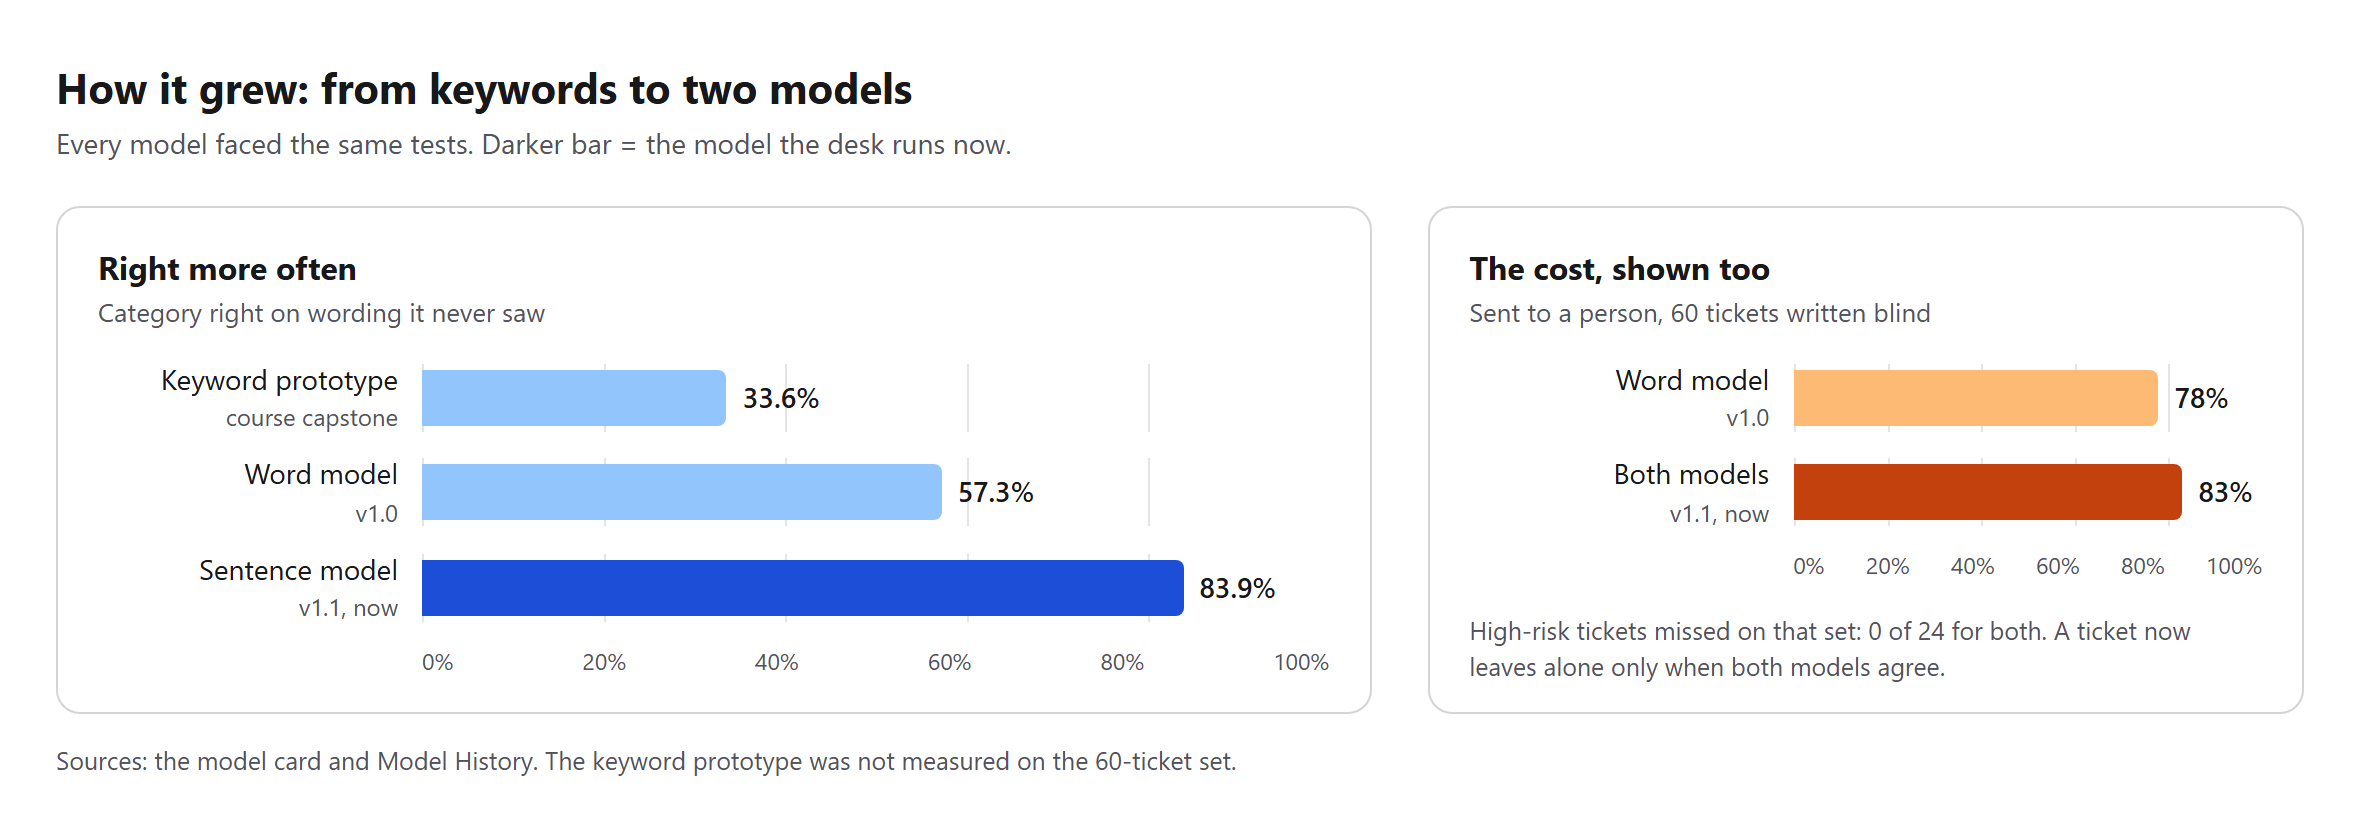
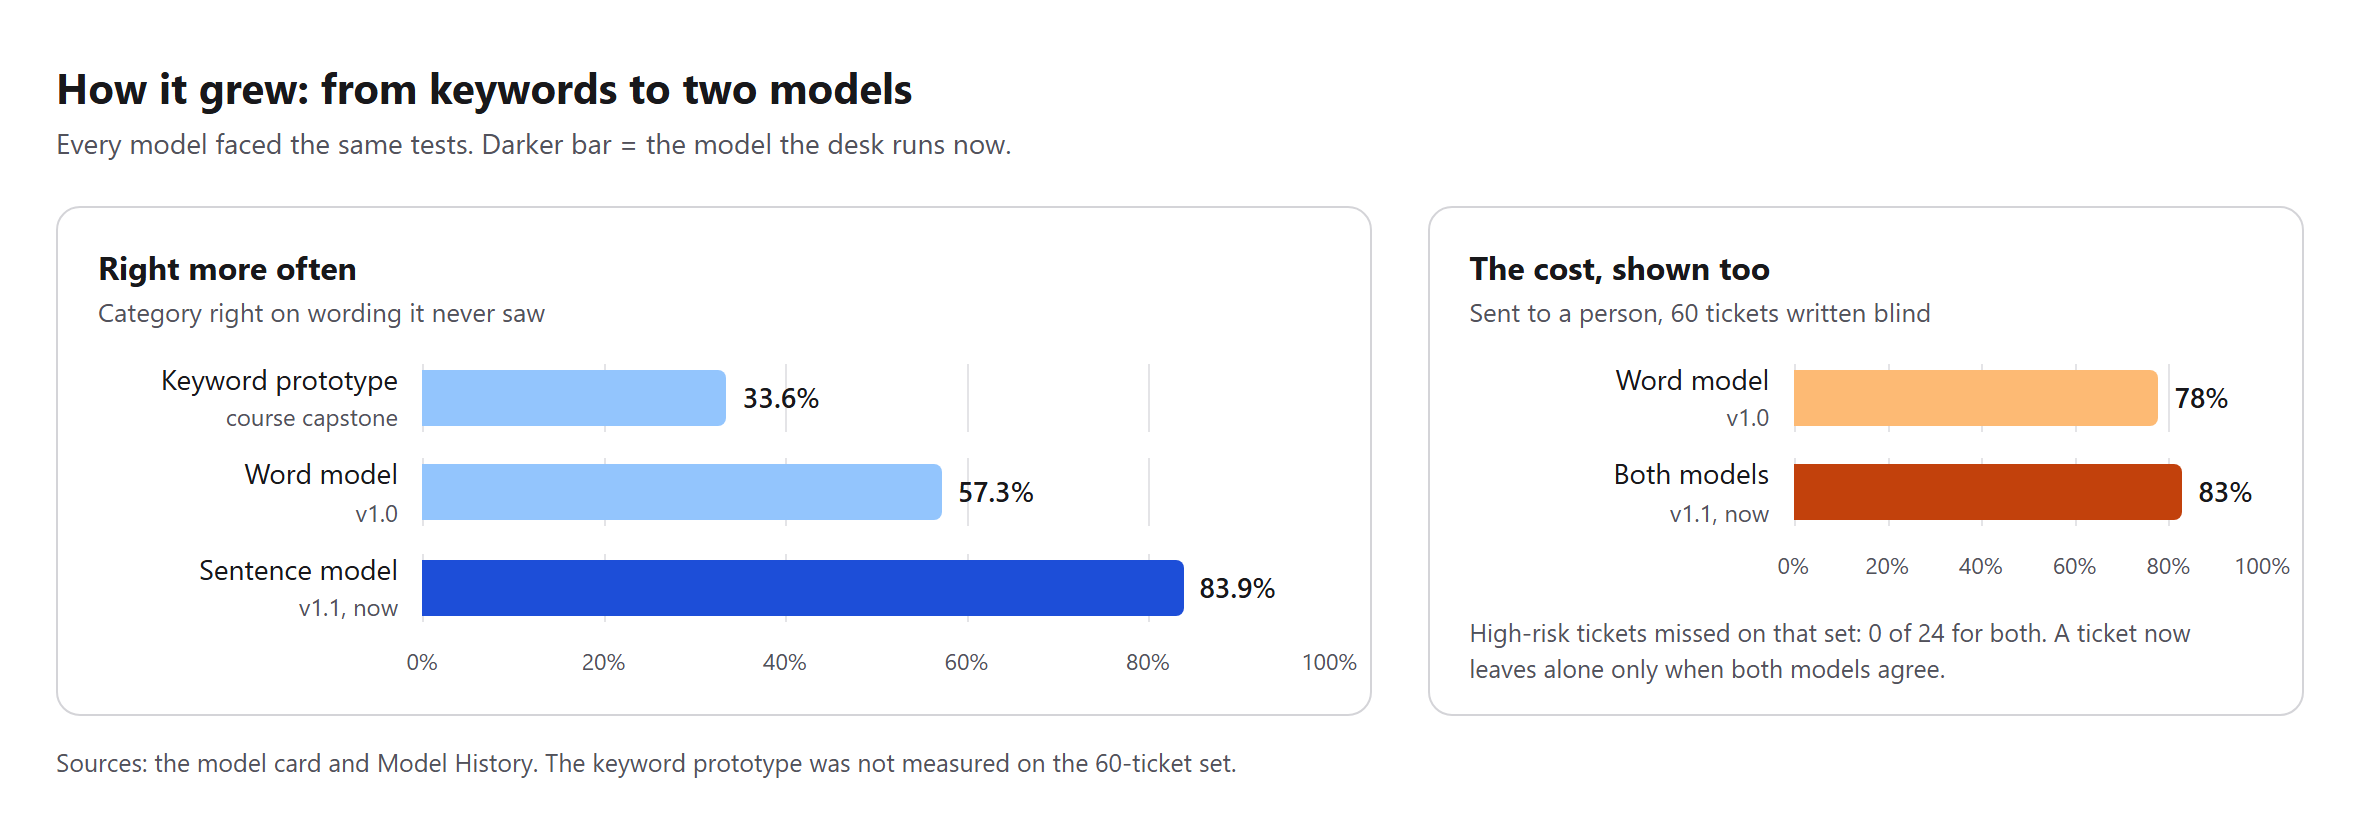
docs: place the chart's axis labels on their gridlines

diff --git a/README.md b/README.md
@@ -16,7 +16,7 @@ This began as a keyword prototype for a course capstone. It is now a trained mod
 
 | Page | What it shows |
 |---|---|
-| **[The desk](https://goudymt.github.io/ai-support-desk-triage/)** | The receiving end. Press Start, the sentence model downloads (about 38.5 MB, from this site), and a run of 130 made-up tickets plays out in about 5 minutes. Each one goes to a team or waits in Needs a person, highest risk first. Step in with Review, or press Approve when both models agree and the word model is at least 70% sure. |
+| **[The desk](https://goudymt.github.io/ai-support-desk-triage/)** | The receiving end. Press Start, the sentence model and its runtime download (about 38.5 MB, from this site), and a run of 130 made-up tickets plays out in about 5 minutes. Each one goes to a team or waits in Needs a person, highest risk first. Step in with Review, or press Approve when both models agree and the word model is at least 70% sure. |
 | **Try a ticket** | Type your own support message and see its category, priority, team and whether a person is needed. |
 | **The report** | An after action report for the run so far, with the numbers behind it. Print it or save it as a PDF. |
 | **[Under the Hood](https://goudymt.github.io/ai-support-desk-triage/under-the-hood.html)** | The same pipeline slowed down, one stage at a time, with the words that moved each decision. |
